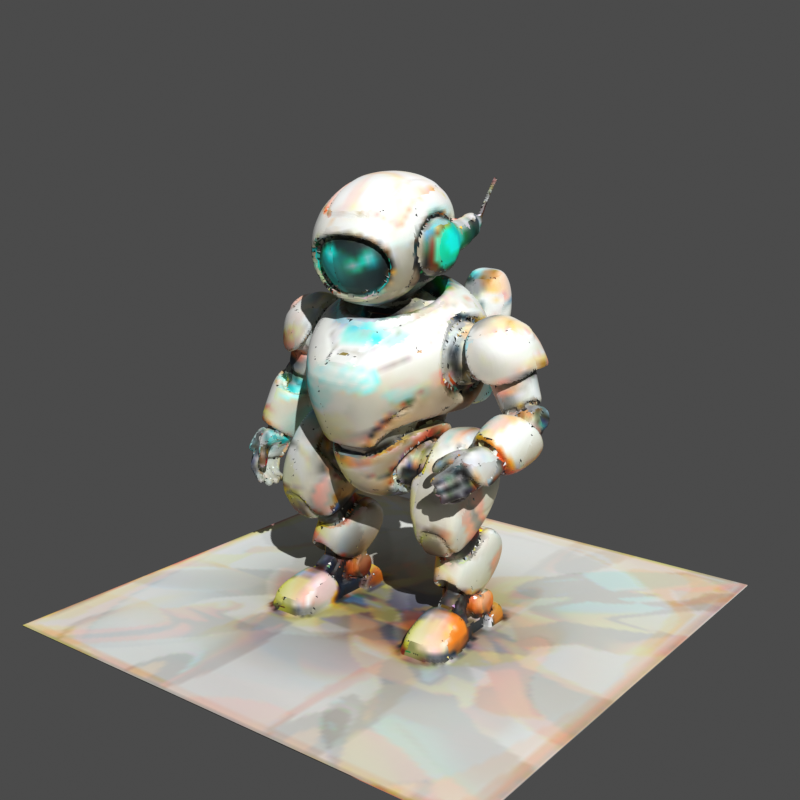
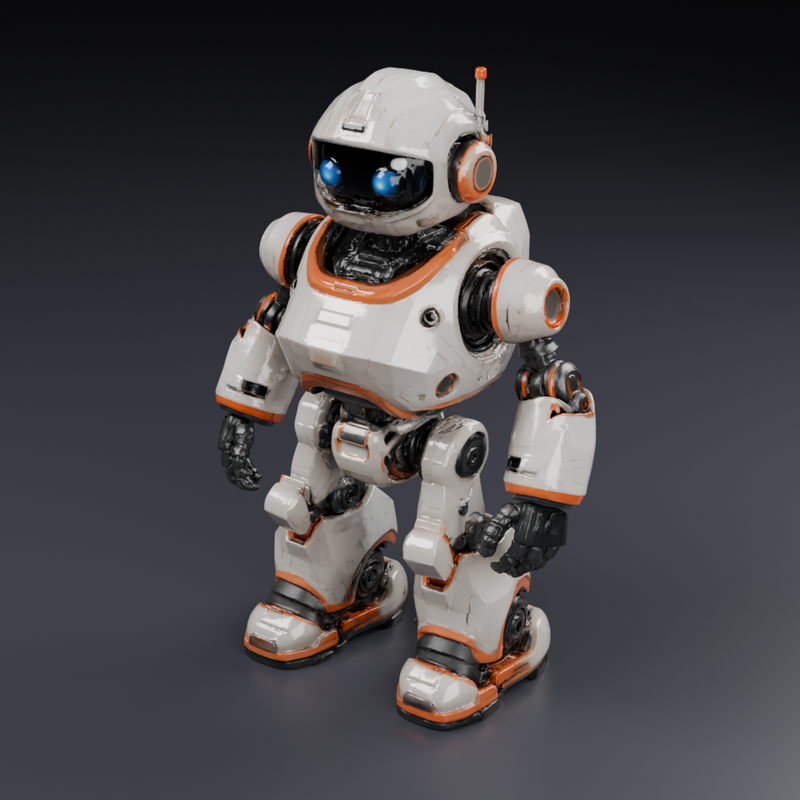
release: v0.6.0 — docs and README media on the new defaults
- CHANGELOG: cut [0.6.0] with an intro, the ComfyUI >= 0.40 requirement, the 2026-10-15
  re-validation, the mesh3d geometry-gate change it was missing, and a Docs section.
  pyproject 0.6.0; STACK package version and reference-build row.
- README: ComfyUI >= 0.40 badge and prereqs; a new Qwen-Image-2.1 hero; the image/video/3D strip
  regenerated on the defaults (one robot: Qwen-Image -> Wan 2.2 clip -> TRELLIS.2 mesh rendered in
  Blender); product-mode comment; the agent row adds the CAD loop; example-brand clip is `--model ltx23`.
- SETUP: version note, measured default download sizes (~125 GB, ~94 GB without camera moves),
  the split_files note, and the lightx2v example.
- Brand Kits: Qwen-Image default and templates. A brand's `negative` affects only video sampled
  above CFG 1; no image recipe uses it (CFG 1 skips the negative pass; Z-Image zeroes it).
- threed models.md + CATALOG: the shared TRELLIS.2/Pixal3D graph is validated as a whole, so all
  seven files are needed for either model (verified live: HTTP 400 without the Pixal3D/MoGe files).
- UPDATING: generic reference-build wording; video README caption for the Wan GIF.

Validated: full local-model suite on ComfyUI 0.40 + Ollama 0.40, 15/15 steps (every default, the
kept alternates, image/CAD/mesh3d agent loops, replay, doctor); 673 tests; ruff clean.

diff --git a/README.md b/README.md
@@ -4,7 +4,7 @@
 [![lint · test · audit](https://github.com/whartons/Chimera/actions/workflows/ci.yml/badge.svg)](https://github.com/whartons/Chimera/actions/workflows/ci.yml)
 [![Ruff](https://img.shields.io/endpoint?url=https://raw.githubusercontent.com/astral-sh/ruff/main/assets/badge/v2.json)](https://github.com/astral-sh/ruff)
 [![codecov](https://codecov.io/gh/whartons/Chimera/branch/main/graph/badge.svg)](https://codecov.io/gh/whartons/Chimera)
-![ComfyUI](https://img.shields.io/badge/ComfyUI-%E2%89%A50.24-orange)
+![ComfyUI](https://img.shields.io/badge/ComfyUI-%E2%89%A50.40-orange)
 ![License: MIT](https://img.shields.io/badge/license-MIT-lightgrey)
 ![Built on RTX 5090 · cu130](https://img.shields.io/badge/built%20on-RTX%205090%20%C2%B7%20cu130-76B900?logo=nvidia&logoColor=white)
 
@@ -21,9 +21,9 @@ Blender-render, and FreeCAD-CAD all run headless from one core — no brand and 
 OpenAI-compatible LLM, or a local Qwen3-VL-8B served via Ollama). Public and reusable — built end-to-end on an RTX 5090,
 written to help anyone on ComfyUI, especially **Blackwell (RTX 50-series)**.
 
-![An ember-winged chimera — lion body, goat head, serpent-headed tail — over an erupting volcano, generated with this repo's Z-Image workflow](docs/images/chimera-zimage-sample.png)
+![An ember-winged chimera — lion body, goat head, serpent-headed tail — over an erupting volcano, generated with this repo's Qwen-Image workflow](docs/images/chimera-qwen-sample.png)
 
-<sub>Generated with the included [Z-Image workflow](workflows/templates/brand-zimage-txt2img.json) (`--variant base`) on an RTX 5090, straight out of ComfyUI.</sub>
+<sub>Generated with the included [Qwen-Image-2.1 workflow](workflows/templates/brand-qwen-image-txt2img.json), the default image model, on an RTX 5090 in about 6 s, straight out of ComfyUI.</sub>
 
 **The headline — the loop correcting itself:**
 
@@ -38,11 +38,13 @@ written to help anyone on ComfyUI, especially **Blackwell (RTX 50-series)**.
 | ![image](docs/images/chimera-sample-image.png) | ![video](docs/images/chimera-sample-video.gif) | ![3D](docs/images/chimera-sample-3d-single.png) | ![Blender turntable](docs/images/chimera-sample-blender.gif) | ![CAD](docs/images/chimera-sample-cad.png) |
 | `chimera image` | `chimera video` | `chimera 3d` | `chimera render` | `chimera cad` |
 
-<sub>The 3D panel is the textured result of one concept image → Hunyuan3D mesh → all-around auto-repaint bake; see the full concept→mesh→texture strip in [`modules/threed/`](modules/threed/).</sub>
+<sub>The image, video and 3D panels are one robot on the default models: Qwen-Image-2.1 drew it, Wan 2.2 animated it, and TRELLIS.2 turned it into a textured mesh, rendered headless in Blender. More in [`modules/threed/`](modules/threed/).</sub>
 
 ## ⚡ Quickstart
 
-**Prereqs:** ComfyUI **≥ 0.24** ([`docs/SETUP.md`](docs/SETUP.md)); RTX 50-series owners should run the
+**Prereqs:** ComfyUI **≥ 0.40**: the default models (Qwen-Image-2.1, SeedVR2, Wan 2.2, Stable Audio 3,
+TRELLIS.2) run on its core nodes. Older builds (≥ 0.24) still run the earlier models via `--model`. See
+[`docs/SETUP.md`](docs/SETUP.md) for what to download. RTX 50-series owners should run the
 [Blackwell tuning guide](docs/BLACKWELL-TUNING.md) first. Then:
 
 ```bash
@@ -70,7 +72,7 @@ LoRA, and per-brand output routing (`brands/<brand>/outputs/…`, each with a si
 
 ```bash
 chimera image --brand <brand> --mode txt2img --subject "an armored rover" --watermark   # --watermark is opt-in
-chimera image --brand <brand> --mode product --asset rover.png   # img2img restyle into a scene
+chimera image --brand <brand> --mode product --asset rover.png   # the real product, placed into a new scene
 chimera audio --brand <brand> --mode foley --from-video clip.mp4 --subject "tires on gravel"
 ```
 
@@ -113,7 +115,7 @@ roles itself, and no `CHIMERA_*` keys are read.
 ## 🧩 Modules
 | Module | What it does | Status |
 |--------|--------------|--------|
-| [`agent`](modules/agent/self-correction.md) | Self-correction loop (generate → VLM judge → refine) — 2D image and 3D mesh (`--pipeline mesh3d`; `--finalize` textures the winner) | ✅ |
+| [`agent`](modules/agent/self-correction.md) | Self-correction loop (generate → VLM judge → refine) — 2D image, textured 3D mesh (`--pipeline mesh3d`), and parametric CAD (`--pipeline cad`, an LLM writes the FreeCAD script) | ✅ |
 | [`agent`](modules/agent/) | MCP bridge + security model — drive ComfyUI from an assistant | ✅ |
 | [`image`](modules/image/) | Qwen-Image-2.1 (default) · Z-Image · FLUX.2 — txt2img / logo / product edit / relight · `--upscale` | ✅ |
 | [`video`](modules/video/) | Wan 2.2 image-to-video (default) + Fun Camera moves (`--camera`) · LTX-2.3 with native synced audio (`--model ltx23`) | ✅ |
@@ -190,7 +192,7 @@ by the commands above:
 |:---:|:---:|:---:|
 | ![txt2img](brands/example-brand/outputs/images/example-brand_txt2img_7.png) | ![product](brands/example-brand/outputs/images/example-brand_product_7.png) | ![logo](brands/example-brand/outputs/images/example-brand_logo_7.png) |
 
-…plus a [video clip](brands/example-brand/outputs/video/example-brand_i2v_42.mp4) (LTX-2.3, synced audio),
+…plus a [video clip](brands/example-brand/outputs/video/example-brand_i2v_42.mp4) (LTX-2.3 via `--model ltx23`, synced audio),
 the same clip [re-foleyed](brands/example-brand/outputs/video/example-brand_foley_42.mp4), a
 [music stinger](brands/example-brand/outputs/audio/example-brand_music_42.mp3), and a
 [3D mesh](brands/example-brand/outputs/3d/example-brand_image_42.glb). The **same brand brain drives a whole

diff --git a/CHANGELOG.md b/CHANGELOG.md
@@ -6,6 +6,13 @@ All notable changes to Chimera are documented here. The format follows
 
 ## [Unreleased]
 
+## [0.6.0] - 2026-10-15
+
+The model-refresh release. The 2026-10 quarterly review's winners are the new defaults: Qwen-Image-2.1
+(image), SeedVR2 (upscale), Wan 2.2 (video, with camera moves), Stable Audio 3 (music, plus a new sound-effects
+mode) and TRELLIS.2 (textured 3D). Replay now protects old renders from those changes. Also: ComfyUI 0.40 and
+Ollama 0.40 compatibility, a GPU-memory hand-off between them, and a freecad-mcp security fix.
+
 ### Security
 - **`freecad-mcp` `3745ff9 → 78bf023` (v0.1.22 → v0.1.27), fixing
   [GHSA-v4pw-r6h3-v75q](https://github.com/neka-nat/freecad-mcp/security/advisories/GHSA-v4pw-r6h3-v75q)**
@@ -105,9 +112,15 @@ All notable changes to Chimera are documented here. The format follows
   turntables spin in place. Affects `render --mode mesh`, the mesh3d/CAD loop stills, and finalize renders.
 
 ### Changed
+- **ComfyUI ≥ 0.40 is required for the new defaults.** Their nodes are core in 0.40, so no extra node packs are
+  needed. On an older build (≥ 0.24), set `--model` or a brand pin to keep the earlier models. `docs/SETUP.md`
+  lists the default downloads (about 125 GB in all, no Hugging Face login).
 - **Reference build: ComfyUI 0.40.0** (Comfy Desktop 1.1.7), smoke-validated 2026-10-14 with every output
   checked as created by the run: txt2img, relight, upscale, video, foley, music, 3D, finalize-texture, render,
-  cad, and the image/mesh3d/cad agent loops on local Ollama models.
+  cad, and the image/mesh3d/cad agent loops on local Ollama models. Re-validated 2026-10-15 on the new
+  defaults: Qwen-Image txt2img, product edit + SeedVR2 upscale, relight, Wan 2.2 image-to-video and a camera
+  move, foley on a Wan clip, Stable Audio 3 music and sound effects, TRELLIS.2 3D + render, cad, the three agent
+  loops, replay, and doctor.
 - **Video on ComfyUI ≥ 0.40 needs the bundled LTXVideo patch**
   ([`modules/video/patches/ltxvideo-stg-comfyui-0.40.patch`](modules/video/patches/ltxvideo-stg-comfyui-0.40.patch)).
   ComfyUI 0.40 passes attention inputs as `AttentionTensorContainer`s, and the pack's STG guidance returned
@@ -147,6 +160,19 @@ All notable changes to Chimera are documented here. The format follows
     Blender color bakes.
   - **mesh3d loop:** it now judges the textured model, with the textured rubric. `--texture` / `--finalize`
     require `--mesh-model hunyuan21`; on a textured mesh they would overwrite its textures.
+  - **Geometry gate:** the fragmentation check counts only significant parts (islands with at least 1% of the
+    mesh). TRELLIS.2 models small details such as eyes and antenna tips as separate shells, so a clean toy
+    robot the judge scored 1.0 failed on 12 raw parts (3 significant). Checks files from older runs fall back
+    to the raw count.
+
+### Docs
+- README media regenerated on the new defaults: the Qwen-Image-2.1 hero, and the image → video → 3D strip
+  (a Qwen robot, its Wan 2.2 clip, and its TRELLIS.2 mesh rendered in Blender).
+- `docs/SETUP.md` lists what the defaults download and where Comfy-Org's `split_files/` files go.
+- The Brand Kits guide said a brand's `negative` shaped FLUX.2 images. No image recipe uses it: Qwen-Image-2.1
+  and FLUX.2 sample at CFG 1, where ComfyUI skips the negative pass, and Z-Image zeroes its negative. It only
+  changes video sampled above CFG 1 (LTX-2.3, Wan 2.2 `--quality full`). Word the positive to keep things out
+  of an image.
 
 ### Erratum
 - The **v0.5.0** notes overstated its validation ("smoke-validated live across image, video, 3D … and the full
@@ -732,7 +758,8 @@ agent layer — plus a provider-agnostic, per-role LLM backend. Repo renamed `Co
   `new-brand` / `lint` / `doctor` / `update-check`, the hardened MCP bridge, a GPU-free test suite,
   cross-platform CI, and `pip`-installable packaging.
 
-[Unreleased]: https://github.com/whartons/Chimera/compare/v0.5.1...HEAD
+[Unreleased]: https://github.com/whartons/Chimera/compare/v0.6.0...HEAD
+[0.6.0]: https://github.com/whartons/Chimera/compare/v0.5.1...v0.6.0
 [0.5.1]: https://github.com/whartons/Chimera/compare/v0.5.0...v0.5.1
 [0.5.0]: https://github.com/whartons/Chimera/compare/v0.4.0...v0.5.0
 [0.4.0]: https://github.com/whartons/Chimera/compare/v0.3.0...v0.4.0

diff --git a/modules/image/brand-kits.md b/modules/image/brand-kits.md
@@ -28,12 +28,16 @@ covers the whole core offline.
 ## The three on-brand mechanisms
 
 **① Prompt injection — always on.** `build_prompt()` composes
-`prefix → subject → style → palette → suffix` into the positive prompt and uses the
-manifest `negative` **on the FLUX.2 graphs**. The Z-Image templates hard-wire
-`ConditioningZeroOut` as their negative (the validated recipe for that family), so a
-brand's `negative` text only takes effect on FLUX.2 (`--model flux2_*`). Zero downloads;
+`prefix → subject → style → palette → suffix` into the positive prompt. Zero downloads;
 works for every brand immediately. This is the backbone — even brands with no logo/LoRA
 get consistent look from style + palette words.
+
+The manifest `negative` is filled into every graph with a negative slot and recorded in
+the sidecar, but no image recipe uses it. Qwen-Image-2.1 and FLUX.2 sample at CFG 1,
+where ComfyUI skips the negative pass entirely, and Z-Image zeroes its negative with
+`ConditioningZeroOut` (even the CFG-4 `base` variant). It changes the output only for video
+sampled **above CFG 1**: LTX-2.3 and Wan 2.2 `--quality full`. To keep something out of an
+image, word the positive instead.
 
 **② IP-Adapter style/subject reference — V2, opt-in (deferred).** The manifest already
 carries an `ip_adapter{}` block (parsed, `enabled: false` by default). FLUX.2 IP-Adapter
@@ -51,20 +55,22 @@ toggle and lands in a separate V2 plan — adding it doesn't disturb V1.
 ## Modes → templates
 
 `--mode` selects one of three generic, API-format graphs in `workflows/templates/`. The
-**default backend is Z-Image** — the filler dispatches to the `brand-zimage-*` templates when the
-model name starts with `z_image`; passing a `flux2*` model name routes to the parallel FLUX.2 graphs
-instead. The filler addresses nodes by a stable `_meta.title` (see `brandkit/nodes.py`), so re-saving
+**default backend is Qwen-Image-2.1**. The filler picks the graph family from the model name:
+`qwen_image*` → the `brand-qwen-image-*` graphs, `z_image*` → `brand-zimage-*`, and `flux2*` → the
+FLUX.2 graphs. It addresses nodes by a stable `_meta.title` (see `brandkit/nodes.py`), so re-saving
 a graph in ComfyUI can't silently misroute an edit.
 
-| Mode | Template (default · Z-Image) | What it does |
+| Mode | Template (default · Qwen-Image-2.1) | What it does |
 |---|---|---|
-| `txt2img` | `brand-zimage-txt2img.json` | on-brand text-to-image (the verified Z-Image graph) |
-| `logo` | `brand-zimage-logo-overlay.json` | txt2img → composite `logos/<png>` (alpha-correct) at a corner |
-| `product` | `brand-zimage-product.json` | img2img: re-render `products/<png>` into a new scene |
+| `txt2img` | `brand-qwen-image-txt2img.json` | on-brand text-to-image |
+| `logo` | `brand-qwen-image-logo-overlay.json` | txt2img → composite `logos/<png>` (alpha-correct) at a corner |
+| `product` | `brand-qwen-image-product.json` | reference edit: the encoder sees `products/<png>` and places that product in a new scene at the brand's size |
 
-The **FLUX.2 fallback** uses the parallel `brand-txt2img.json` / `brand-logo-overlay.json` /
-`brand-product-mockup.json` graphs, selected by setting a `flux2*` model in `brand.yaml` or via
-`--model` (see [`../../docs/CATALOG.md`](../../docs/CATALOG.md)).
+The earlier backends stay one setting away: set the model in `brand.yaml` or pass `--model`
+(see [`../../docs/CATALOG.md`](../../docs/CATALOG.md)). **Z-Image** (`z_image_turbo_*`, the
+default before v0.6.0) uses the `brand-zimage-*` graphs; its `product` mode is an img2img
+re-render at the product photo's size. **FLUX.2** (`flux2*`) uses `brand-txt2img.json` /
+`brand-logo-overlay.json` / `brand-product-mockup.json`, and is also what `--mode relight` runs on.
 
 The logo overlay uses `LoadImage`'s mask output as the composite alpha and computes
 x/y from `logo.position` + `logo.margin` against the canvas, so the logo stays

diff --git a/docs/SETUP.md b/docs/SETUP.md
@@ -8,6 +8,11 @@ behind **CUDA 13.0 (cu130)** — a standard CUDA 12.x build drives a 5090 correc
 leaves the FP4 tensor-core path disabled (you'll see a `You need pytorch with cu130 or
 higher` warning at startup). See [Performance tuning](#performance-tuning-rtx-50-series--blackwell).
 
+**Version:** Chimera's default models run on **core nodes from ComfyUI 0.40**: Qwen-Image-2.1, the SeedVR2
+upscaler, Wan 2.2 (incl. Fun Camera), Stable Audio 3, and TRELLIS.2 / Pixal3D. On an older build (≥ 0.24),
+pass `--model` to use the earlier models (Z-Image / FLUX.2, LTX-2.3, ACE-Step, Hunyuan3D 2.1). On 0.40,
+LTX-2.3 needs the bundled LTXVideo patch (see [`../modules/video/README.md`](../modules/video/README.md)).
+
 ## This repo
 ```bash
 git clone <your-fork-url> chimera
@@ -20,6 +25,20 @@ mkdir -p workflows/personal outputs
 Each `modules/<name>/models.md` lists the model files, their Hugging Face /
 Civitai URLs, target paths under `ComfyUI/models/...`, and license. Download what
 a module needs before importing its `workflow.template.json`.
+
+The **defaults** come from ungated Comfy-Org repos (no Hugging Face login): about 125 GB in all, or about
+94 GB without the camera-move models.
+
+| Modality | Default | Download |
+|---|---|---|
+| image | Qwen-Image-2.1 | ~17 GB |
+| `--upscale` | SeedVR2 7B | ~9 GB |
+| video | Wan 2.2 | ~38 GB (+ ~31 GB for `--camera` moves) |
+| music / sfx | Stable Audio 3 | ~15 GB |
+| 3D | TRELLIS.2 (its graph also needs the Pixal3D files) | ~15 GB |
+
+Skip any modality you don't use; each module's `models.md` lists its exact files. Comfy-Org's "repackaged" repos
+nest files under `split_files/<type>/`: place them in `models/<type>/`, without the `split_files` level.
 
 ## VRAM
 Baseline dev hardware: RTX 5090, 32 GB. Most modules run on 8–16 GB via
@@ -51,8 +70,8 @@ optimized FP4/FP8 CUDA kernels are gated off). Levers, lowest-risk first:
 4. **NVFP4 model variants** (e.g. `FLUX.2-dev-NVFP4`) — ~2.5× speed / less VRAM, but
    **only after cu130** (on CUDA 12.x they upcast and run *slower*). Keep an fp8 copy
    as an instant fallback.
-5. **Distilled / few-step LoRAs** (e.g. the LTX-2 distilled LoRA) — cutting step count
-   beats any kernel change for video, and needs no install.
+5. **Distilled / few-step LoRAs** (e.g. Wan 2.2's lightx2v 4-step LoRAs, Chimera's default `--quality fast`,
+   or the LTX-2 distilled LoRA). Cutting the step count beats any kernel change for video, and needs no install.
 
 Don't bother on Blackwell + Windows: **nunchaku** (no FLUX.2/LTX-2 support as of 2026),
 **xformers / FlashAttention-3** (no win over SDPA/SageAttention here), or **NVFP4 before

diff --git a/docs/STACK.md b/docs/STACK.md
@@ -35,7 +35,7 @@ flowchart TD
 ---
 
 ## 1 · Language & Python packages
-The `chimera` package (**v0.5.1**, MIT) is pure Python with one required runtime dependency.
+The `chimera` package (**v0.6.0**, MIT) is pure Python with one required runtime dependency.
 
 | Package | Version | Scope | Used for |
 |---------|---------|-------|----------|
@@ -52,7 +52,7 @@ The `chimera` package (**v0.5.1**, MIT) is pure Python with one required runtime
 ## 2 · ComfyUI runtime
 | Component | Version | Notes |
 |-----------|---------|-------|
-| **ComfyUI** (Desktop) | **0.40.0** (reference, Comfy Desktop 1.1.7; smoke-validated 2026-10-14 with every output checked as created by the run: txt2img · relight · upscale · video · foley · music · 3d · finalize-texture · render · cad · image/mesh3d/cad agent loops on local Ollama models) · **≥0.24.x** required · **video needs the LTXVideo patch on ≥0.40** (see §3) | the generation engine (**GPL-3.0**; run as a separate process over HTTP, not vendored). ≥0.24.x is required because the agent verdict-capture uses the **core** node `SaveImageTextDataSetToFolder` (added in 0.24.x). CUDA 12.8+ is the floor to drive Blackwell at all. |
+| **ComfyUI** (Desktop) | **0.40.0** (reference, Comfy Desktop 1.1.7; smoke-validated 2026-10-14, then re-validated 2026-10-15 on the v0.6.0 defaults, every output checked as created by the run: Qwen-Image txt2img · product edit + SeedVR2 upscale · relight · Wan 2.2 i2v + camera move · foley · Stable Audio 3 music + sfx · TRELLIS.2 3D · render · cad · finalize-texture · image/mesh3d/cad agent loops on local Ollama models · replay) · **≥0.40** for the default models (their nodes are core in 0.40) · **≥0.24.x** runs the earlier models via `--model` · **LTX-2.3 needs the LTXVideo patch on ≥0.40** (see §3) | the generation engine (**GPL-3.0**; run as a separate process over HTTP, not vendored). ≥0.24.x is the floor because the agent verdict-capture uses the **core** node `SaveImageTextDataSetToFolder` (added in 0.24.x). CUDA 12.8+ is the floor to drive Blackwell at all. |
 
 ## 3 · Third-party ComfyUI node packs (pinned + security-audited)
 Every pack is **pinned by commit** (never `@latest`) and read-through audited before adoption; a

diff --git a/modules/threed/models.md b/modules/threed/models.md
@@ -13,7 +13,7 @@ nodes (`Trellis2*`, `Pixal3DConditioning`, `MoGe*`, `RemoveBackground`, `UnwrapM
 `ApplyTextureToMesh`, `Save3DAdvanced`, …) are core in ComfyUI 0.40. The weights are the Comfy-Org int8
 "convrot" builds; nothing is gated (the old `facebook/dinov3` login is not needed).
 
-| File | HuggingFace repo | Destination (`ComfyUI/models/…`) | Size | License | Needed by |
+| File | HuggingFace repo | Destination (`ComfyUI/models/…`) | Size | License | Loaded by |
 |------|-----------------|----------------------------------|------|---------|-----------|
 | `trellis_2_int8_convrot.safetensors` | `Comfy-Org/TRELLIS.2` | `diffusion_models/` | ~4.9 GB | ✅ MIT | TRELLIS.2 |
 | `pixal3d_int8_convrot.safetensors` | `Comfy-Org/Pixal3D` | `diffusion_models/` | ~5.2 GB | ✅ MIT | Pixal3D |
@@ -22,6 +22,9 @@ nodes (`Trellis2*`, `Pixal3DConditioning`, `MoGe*`, `RemoveBackground`, `UnwrapM
 | `dino_v3_L_naf_fp32.safetensors` | `Comfy-Org/Pixal3D` | `clip_vision/` | ~1.1 GB | ⚠ repo lists MIT; upstream DINOv3 is under Meta's DINOv3 license | both |
 | `birefnet.safetensors` | `Comfy-Org/BiRefNet` | `background_removal/` | ~0.4 GB | ✅ MIT | both |
 | `moge_2_vitl_normal_fp16.safetensors` | `Comfy-Org/MoGe` | `geometry_estimation/` | ~0.6 GB | ✅ MIT | Pixal3D |
+
+**Download all seven, whichever model you use.** ComfyUI validates the whole shared graph, so a missing
+file fails the run with `Value not in list`, even one only the other model loads.
 
 ---
 

diff --git a/modules/video/README.md b/modules/video/README.md
@@ -1,8 +1,10 @@
 # `video` — brand-aware image-to-video (Wan 2.2 default · camera moves · LTX-2.3 with synced audio)
 
-![A short looping clip of a sci-fi utility robot with subtle idle motion](../../docs/images/chimera-sample-video.gif)
+![A short clip of a sci-fi utility robot waving hello](../../docs/images/chimera-sample-video.gif)
 
-*LTX-2.3 image-to-video — `chimera video --model ltx23 --from-image robot.png`. Brand-neutral sample (silent GIF; LTX also emits synced audio).*
+*Wan 2.2 image-to-video, the default (`--quality fast`, about 30 s on an RTX 5090):
+`chimera video --from-image robot.png --subject "the robot raises its right hand and waves hello…"`.
+Brand-neutral sample.*
 
 Two families, both run end-to-end on an RTX 5090:
 

diff --git a/docs/CATALOG.md b/docs/CATALOG.md
@@ -311,6 +311,8 @@ takes ~25–35 s, shape only.
 | `birefnet.safetensors` | `Comfy-Org/BiRefNet` | `background_removal/` | ~0.4 GB | ✅ MIT |
 | `moge_2_vitl_normal_fp16.safetensors` *(Pixal3D)* | `Comfy-Org/MoGe` | `geometry_estimation/` | ~0.6 GB | ✅ MIT |
 
+- Both models share one graph, and ComfyUI validates all of it: download all seven files even for TRELLIS.2
+  alone, or the run fails with `Value not in list`.
 - `chimera 3d --model trellis2|pixal3d|hunyuan21` (or a brand's `threed.model`); `--octree` is Hunyuan3D-only.
 - The mesh3d agent loop judges the textured render. `--texture` / `--finalize` (Blender bakes for a
   shape-only mesh) need `--mesh-model hunyuan21`.

diff --git a/docs/UPDATING.md b/docs/UPDATING.md
@@ -35,7 +35,7 @@ so the weekly report only *points* at the core release — the authoritative che
 2. Update via the **ComfyUI Desktop app**.
 3. Run the gates — especially **`chimera doctor`** (confirms node packs + models still resolve) and a
    smoke render of **each modality** (a ComfyUI bump can change node schemas).
-4. If the reference build moved, update the `0.26.2` references in `docs/STACK.md` / `docs/SETUP.md`
+4. If the reference build moved, update the reference-build version in `docs/STACK.md` / `docs/SETUP.md`
    and `COMFY_REF` in [`scripts/update_report.py`](../scripts/update_report.py).
 
 ## 3 · Pinned node packs & the MCP server — *manual, audit-gated*

diff --git a/modules/image/README.md b/modules/image/README.md
@@ -1,6 +1,6 @@
 # `image` — brand-aware image generation (Qwen-Image-2.1 default · Z-Image · FLUX.2)
 
-![A sci-fi utility robot, generated with the Z-Image text-to-image workflow](../../docs/images/chimera-sample-image.png)
+![A chunky sci-fi utility robot, generated with the Qwen-Image-2.1 text-to-image workflow](../../docs/images/chimera-sample-image.png)
 
 *Brand-neutral sample generated by this module — `chimera image --subject "a chunky sci-fi utility robot …"` (Z-Image base).*
 
